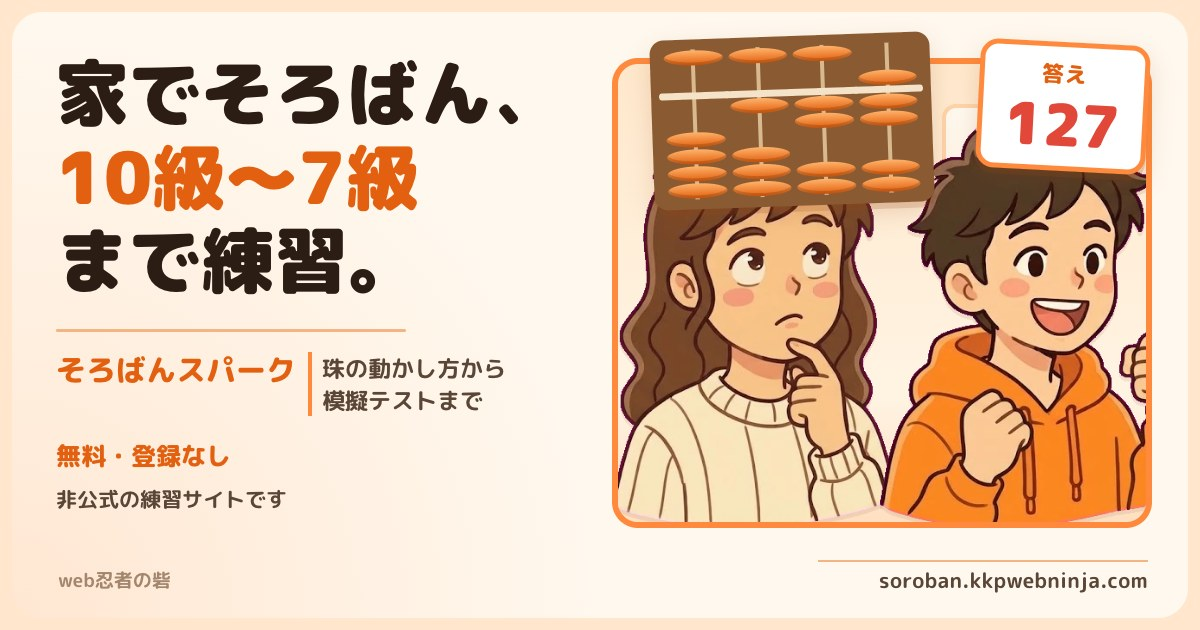
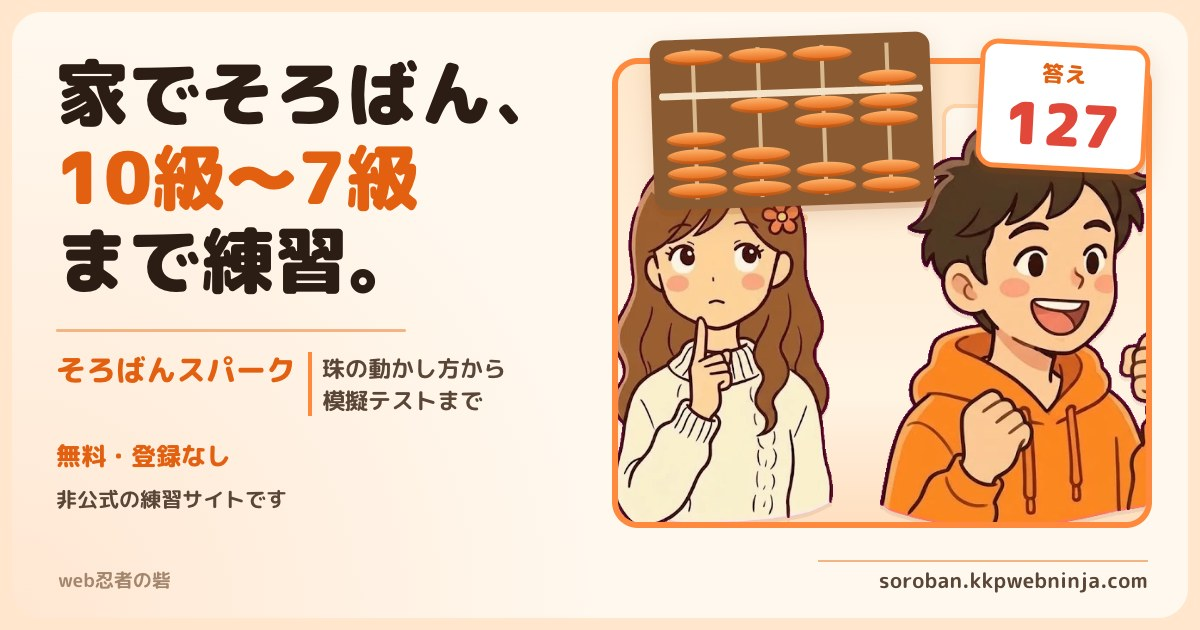
カード画像（OGP）の女の子を、ひと目で女の子と分かる絵に差し替える
男の子と同じ顔に見えていたため、kkp-kit の女の子の素材を作り直して書き出し直した（kkp-kit 978018e）。
og:image・twitter:image の ?d= を 20261023 にして、SNS に新しい画像を読み直させる。

Changed region(s): [[0.4933, 0.2714, 0.74, 0.8444]]

diff --git a/index.html b/index.html
@@ -10,11 +10,11 @@
 <meta property="og:type" content="website">
 <meta property="og:url" content="https://soroban.kkpwebninja.com/">
 <meta property="og:site_name" content="そろばんスパーク">
-<meta property="og:image" content="https://soroban.kkpwebninja.com/ogp.jpg?d=20261022">
+<meta property="og:image" content="https://soroban.kkpwebninja.com/ogp.jpg?d=20261023">
 <meta property="og:image:width" content="1200">
 <meta property="og:image:height" content="630">
 <meta name="twitter:card" content="summary_large_image">
-<meta name="twitter:image" content="https://soroban.kkpwebninja.com/ogp.jpg?d=20261022">
+<meta name="twitter:image" content="https://soroban.kkpwebninja.com/ogp.jpg?d=20261023">
 <script type="application/ld+json">
 {
   "@context": "https://schema.org",
